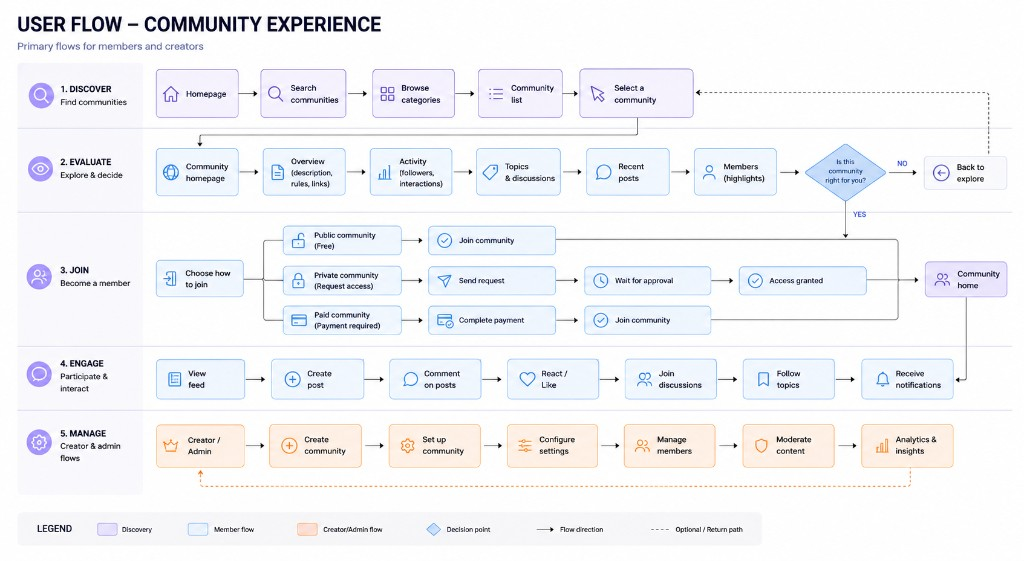
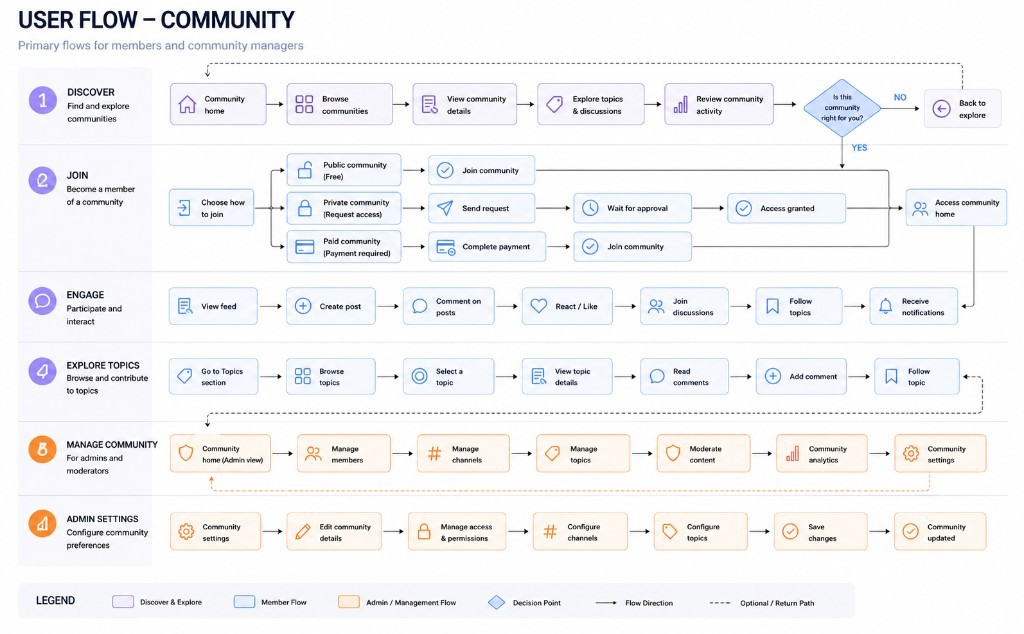
Replace Yethos user flow with detailed member and manager diagram.

diff --git a/src/content/cases.ts b/src/content/cases.ts
@@ -148,9 +148,9 @@ export const cases: CaseStudy[] = [
       },
       userFlow: {
         src: "/cases/yethos/user-flow.png",
-        alt: "Community experience user flow",
+        alt: "Community user flow for members and managers",
         caption:
-          "Primary flows for members and creators — discover, evaluate, join, engage, and manage.",
+          "Primary flows for members and community managers — discover, join, engage, explore topics, and manage settings.",
       },
       wireframe: {
         src: "/cases/yethos/wireframe-homepage.png",